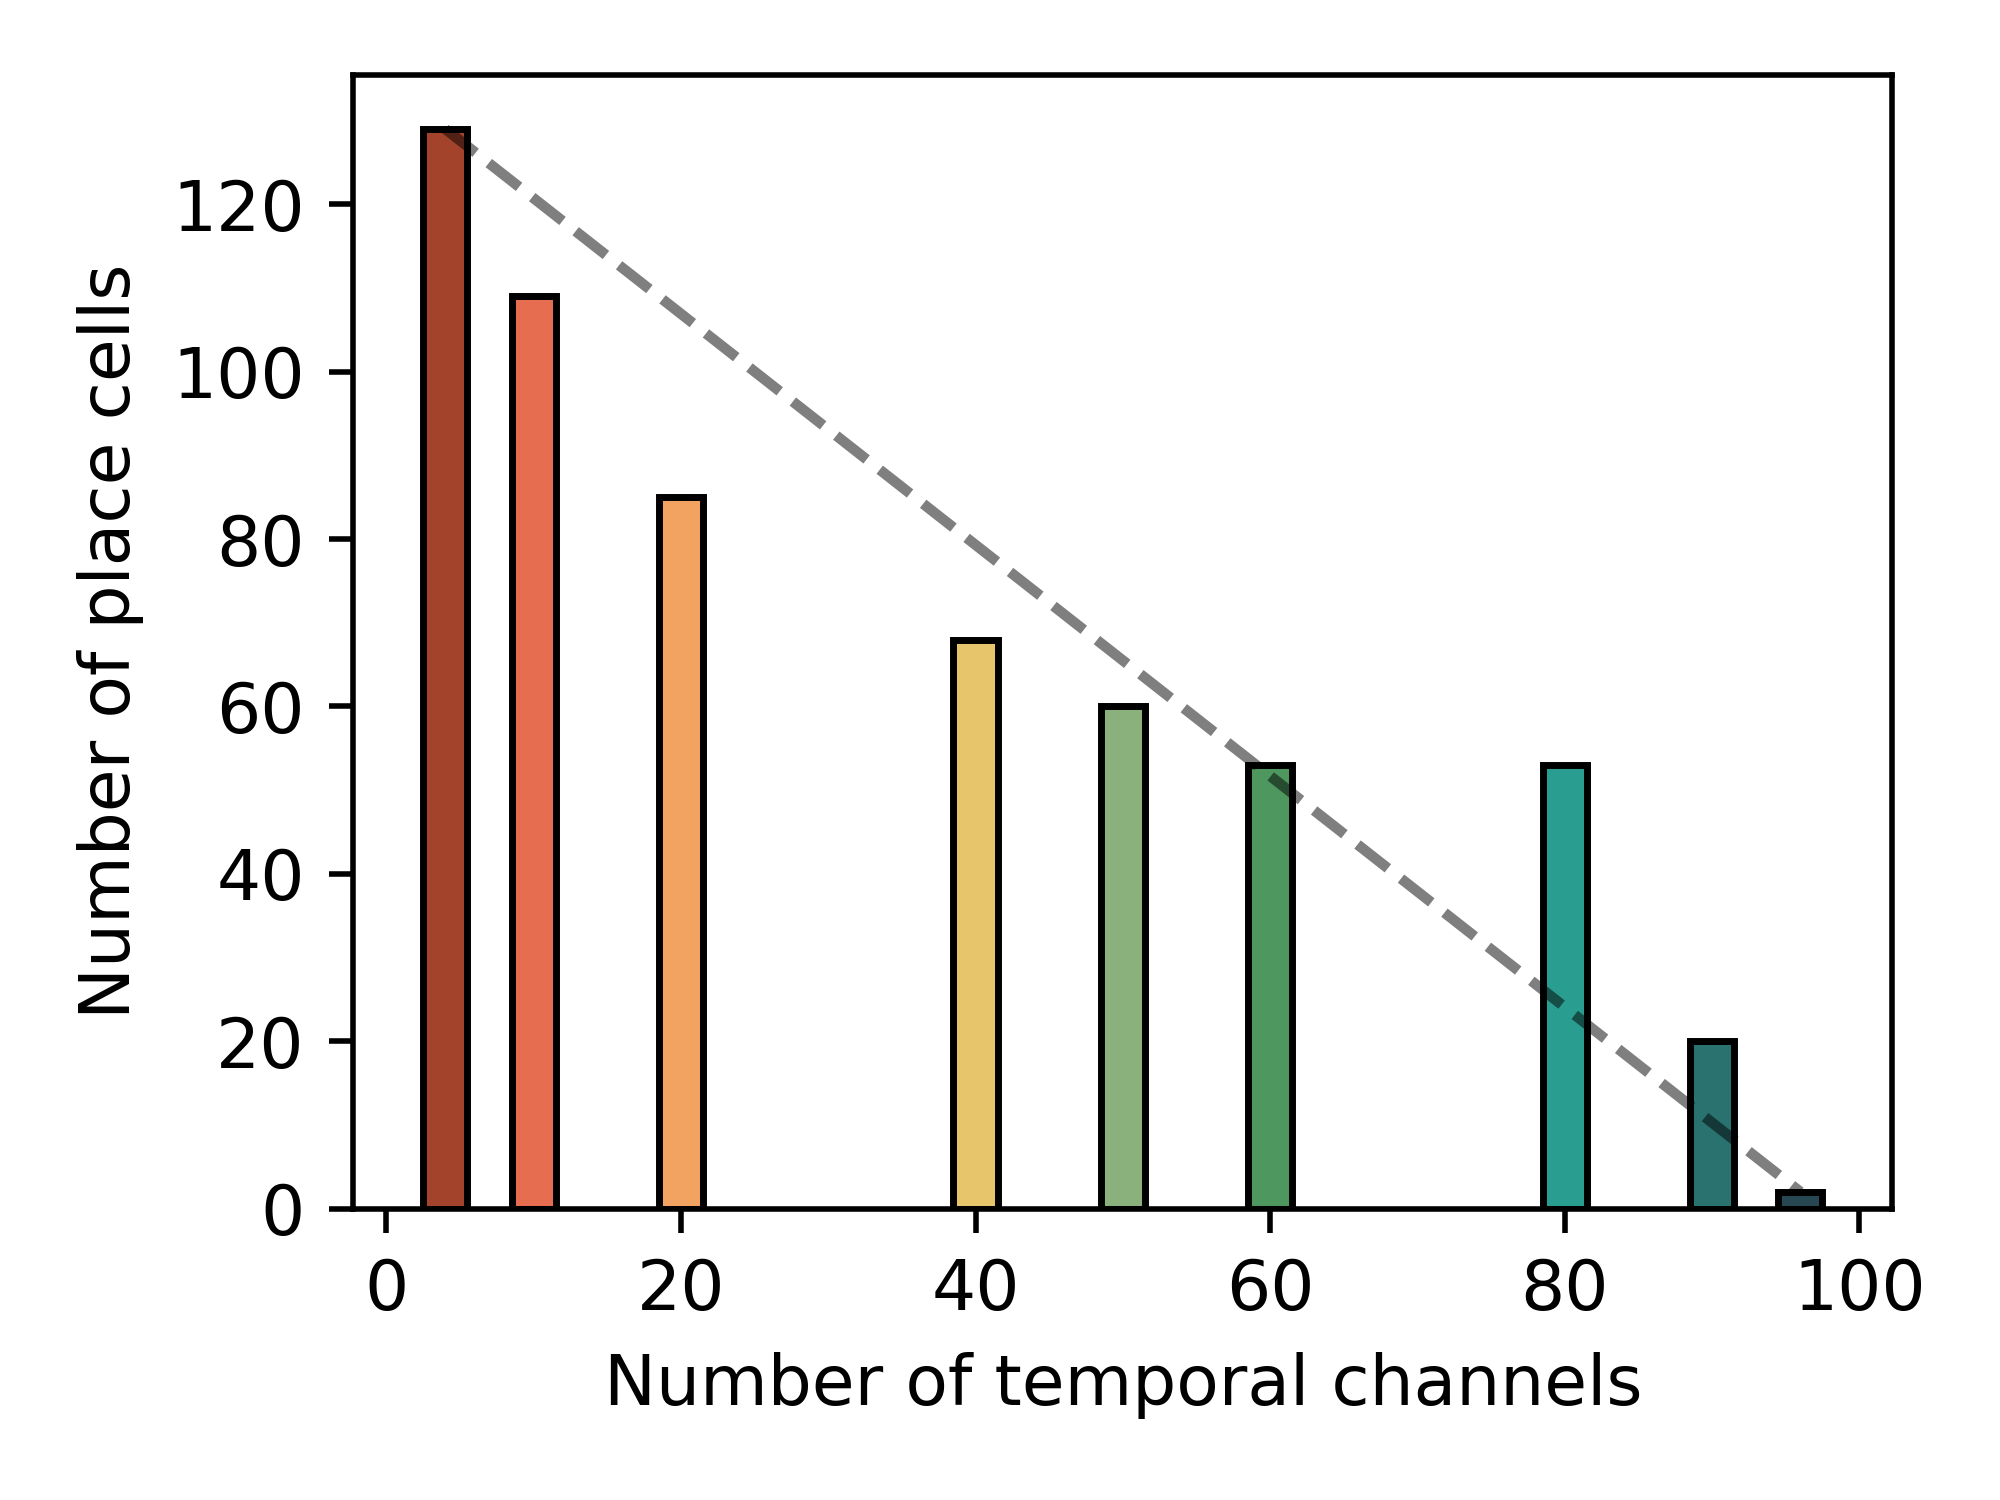
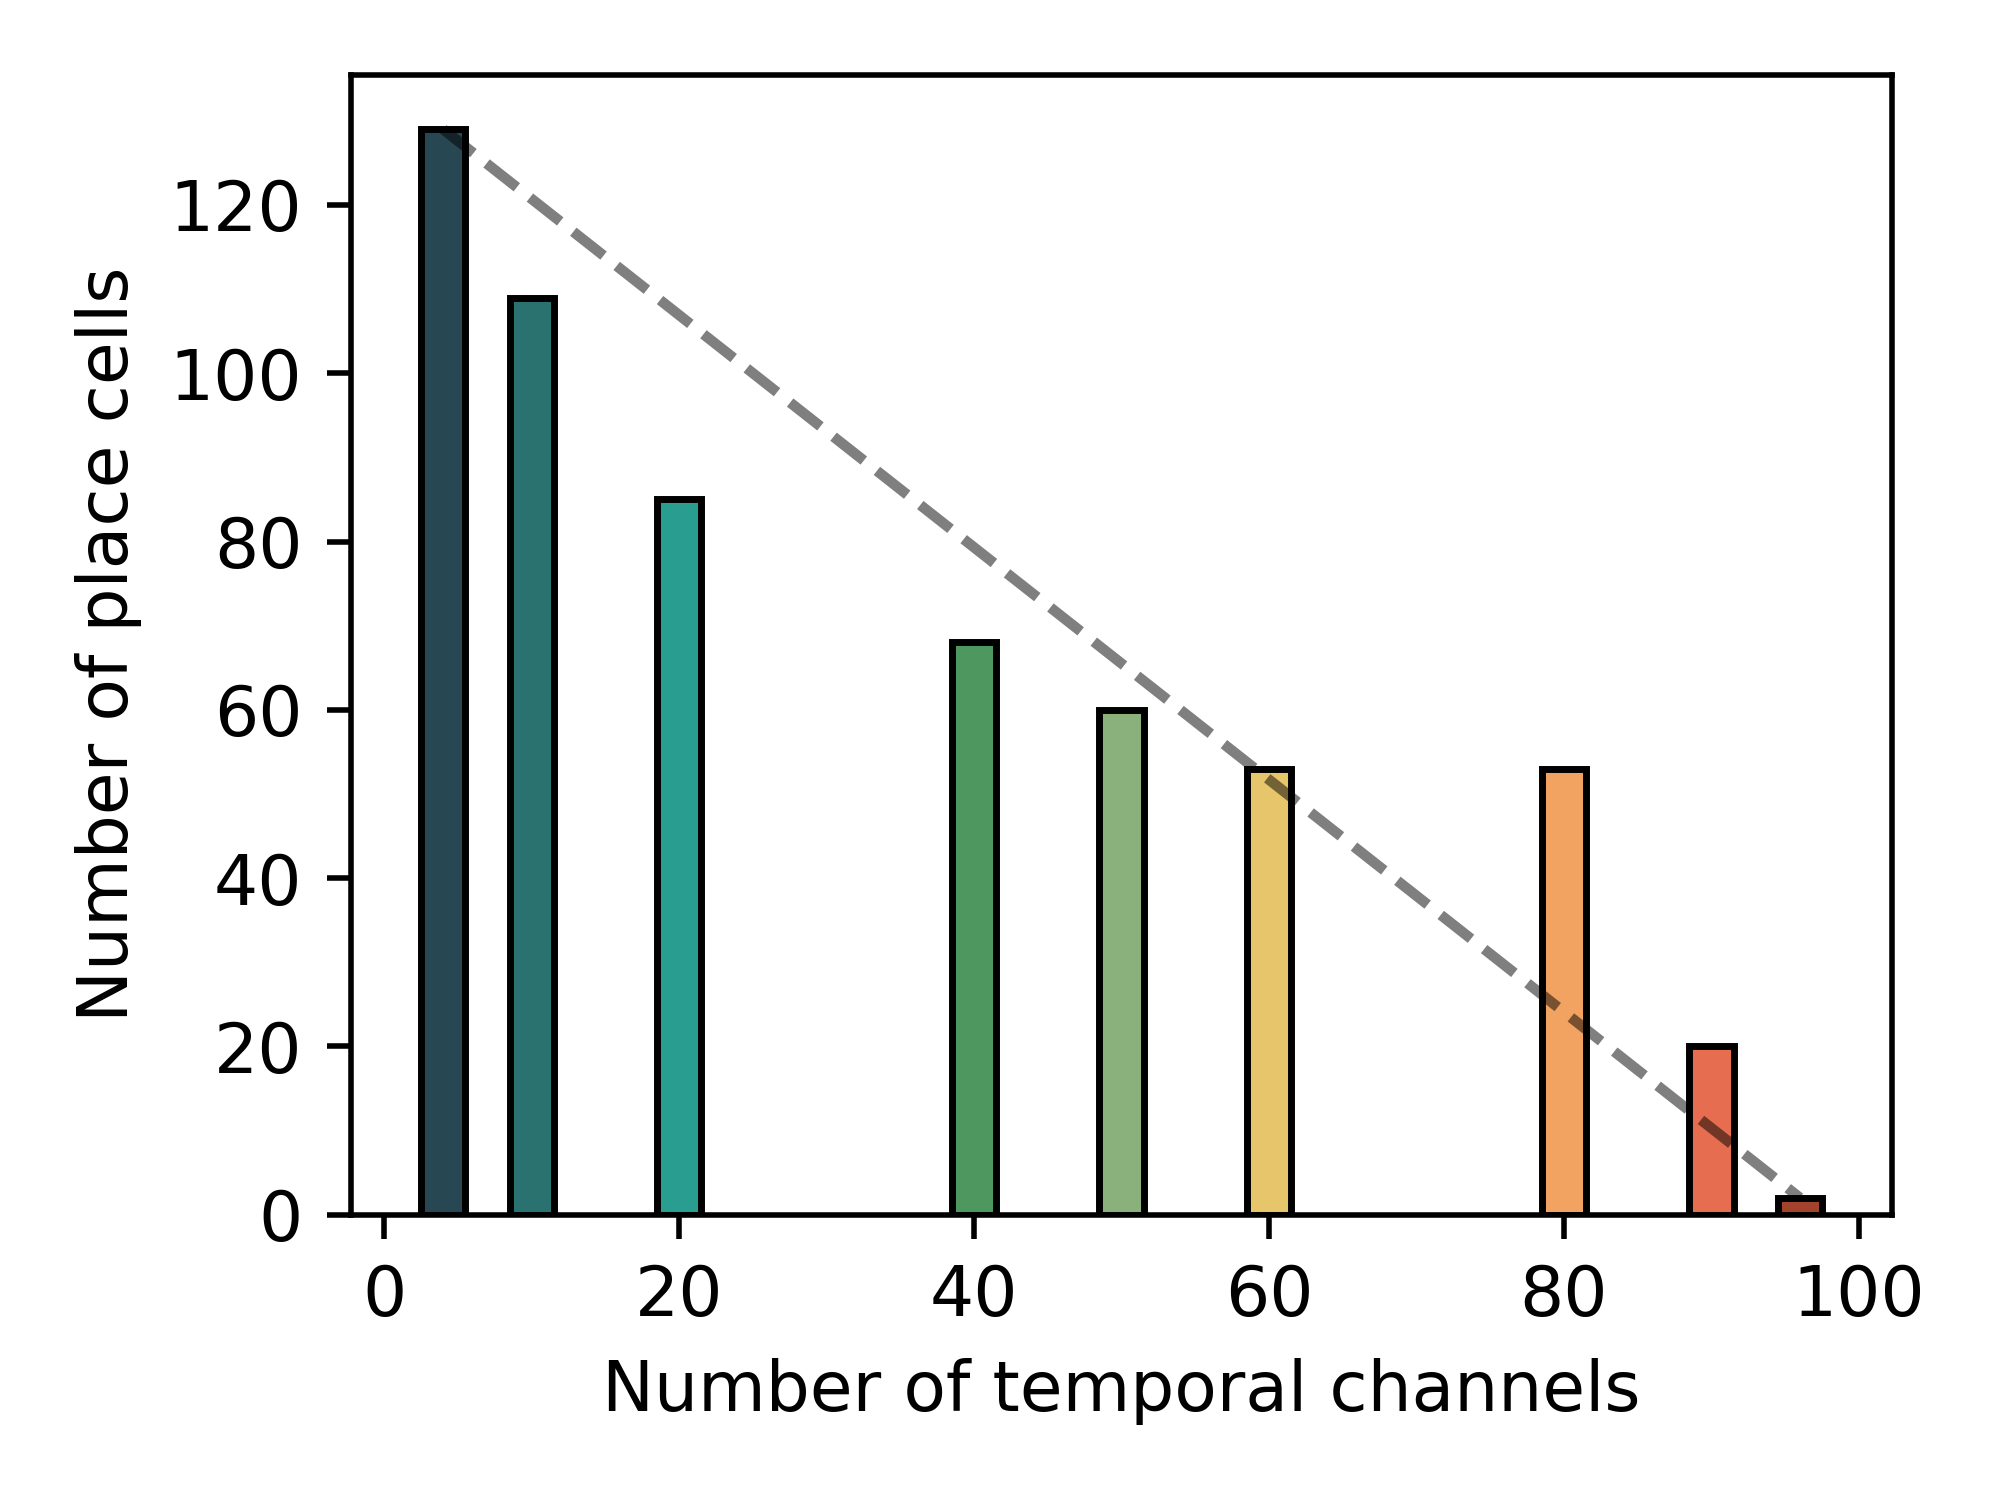
new

diff --git a/code/fig/fig4_hist.py b/code/fig/fig4_hist.py
@@ -1,7 +1,9 @@
 from matplotlib import pyplot as plt
 
-colours = [ '#274753', '#297270', '#299D8F',"#4E975E", '#8AB07C',# '#D3D7AF',
-           '#E7C66B', '#F3A361', '#E66D50', "#A3432B"]
+# colours = [ '#274753', '#297270', '#299D8F',"#4E975E", '#8AB07C',# '#D3D7AF',
+#            '#E7C66B', '#F3A361', '#E66D50', "#A3432B"]
+colours = [ "#A3432B",  '#E66D50', '#F3A361','#E7C66B','#8AB07C',
+           "#4E975E", '#299D8F', '#297270', '#274753']
 
 num_place_cells = [129, 109, 85, 68, 60, 53, 53, 20, 2]
 num_place_cells.reverse()
@@ -10,7 +12,7 @@ num_spatial_channels = [4, 10, 20, 40, 50, 60, 80, 90, 96]
 num_temporal_channels = [100 - n for n in num_spatial_channels]
 
 # Generate a histogram
-fig, ax = plt.subplots(figsize=(4, 3))
+fig, ax = plt.subplots(figsize=(4, 3), dpi=500)
 ax.bar(num_temporal_channels, num_place_cells, color=colours, width=3, edgecolor='black')
 # Plot a dashed line from (4,129) to (96,2)
 ax.plot([4, 96], [129, 2], linestyle='--', color='black', alpha=0.5)

diff --git a/code/fig/fig3_place_cells.py b/code/fig/fig3_place_cells.py
@@ -7,10 +7,11 @@ num_place_cells = [98, 36, 5, 11, 16, 9]
 num_spatial_channels = [0,1,2,3,4,5]
 
 # Generate a histogram
-fig, ax = plt.subplots(figsize=(4, 3))
+fig, ax = plt.subplots(figsize=(3, 9/4), dpi=500)
 ax.plot(num_spatial_channels, num_place_cells, color='black', marker='o', markersize=8, linewidth=2)
 # ax.bar(num_spatial_channels, num_place_cells, color=colours, width=3, edgecolor='black')
 ax.set_xlabel('Trial')
 ax.set_ylabel('Number of place cells')
 plt.tight_layout()
-plt.savefig('output/fig3_place_cells.png', transparent=True)
+plt.savefig('code/fig/fig3_place_cells.png', transparent=True)
+print('done')

diff --git a/code/fig/fig3_bar.py b/code/fig/fig3_bar.py
@@ -18,7 +18,7 @@ rows = [
 # each trial has one colours
 colours = ['#274753', '#297270', '#299D8F', '#8AB07C',  '#E7C66B', '#F3A361']
 
-fig, ax = plt.subplots(figsize=(5, 4))
+fig, ax = plt.subplots(figsize=(5, 4), dpi=500)
 
 yticks = []
 yticklabels = []
@@ -57,4 +57,4 @@ plt.xlabel('Time (s)')
 
 
 plt.tight_layout()
-plt.savefig('output/fig3_b.png', transparent=True)
+plt.savefig('code/fig/fig3_bar.png', transparent=True)
